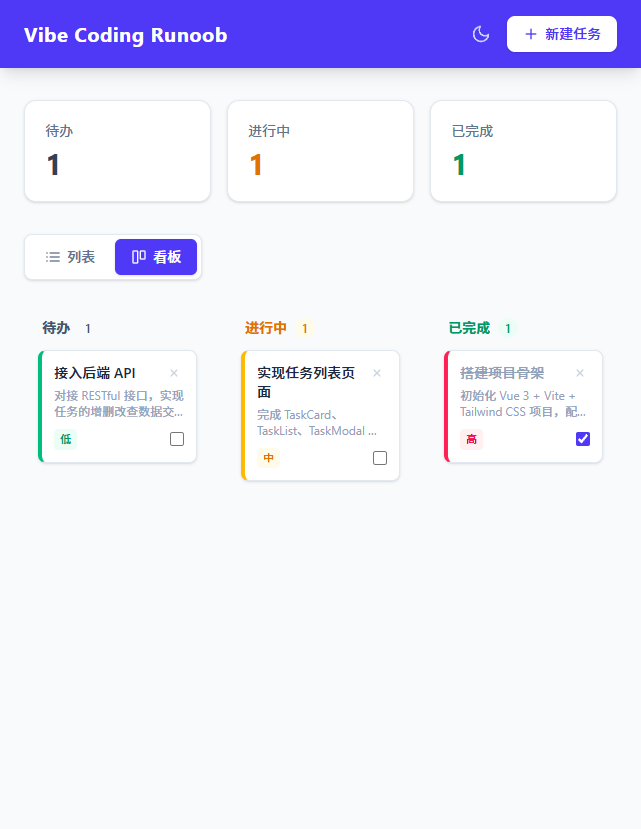
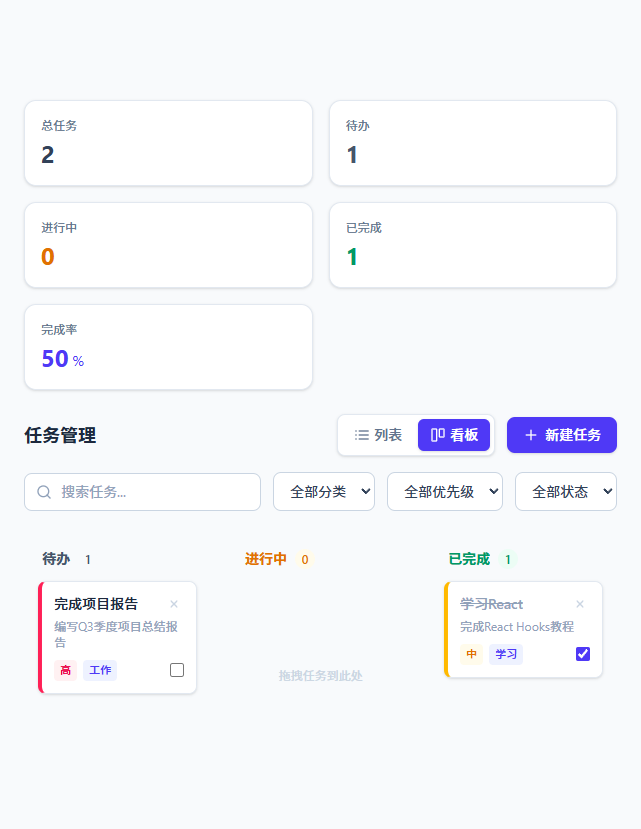
update: portfolio kanban project info to React 18, new screenshots, remove featured badge

diff --git a/src/components/ProjectCard.tsx b/src/components/ProjectCard.tsx
@@ -46,6 +46,7 @@ export default function ProjectCard({ project, onViewDetail }: Props) {
             Featured
           </span>
         )}
+        {/* 注意：featured 标记由 projects.json 中的 "featured": true 控制，当前项目已移除该字段 */}
 
         {/* Navigation arrows */}
         {images.length > 1 && (
